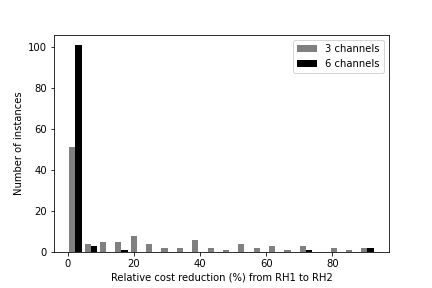
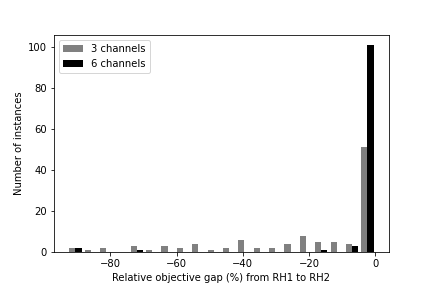
plots

diff --git a/plots/heur_analysis.py b/plots/heur_analysis.py
@@ -23,37 +23,18 @@ d_6_GH["Instance name "] = d_6_GH["Instance name "] + "_6channels"
 d_GH = pandas.concat([d_3_GH,d_6_GH])
 
 
-mannwhitneyutest_result_GH = scipy.stats.mannwhitneyu(d_GH['GH1 UB'],d_GH['GH2 UB'],alternative='greater')
-mannwhitneyutest_result_RH = scipy.stats.mannwhitneyu(d_RH['RH1 UB'],d_RH['RH2 UB'],alternative='greater')
-
-wilcoxontest_result_GH = scipy.stats.wilcoxon(d_GH['GH1 UB'],d_GH['GH2 UB'],alternative='greater')
-wilcoxontest_result_RH = scipy.stats.wilcoxon(d_RH['RH1 UB'],d_RH['RH2 UB'],alternative='greater')
-
-
-
-
-
-
-#mannwhitneyutest_result__greedy_vs_relax = scipy.stats.mannwhitneyu(d_GH['GH2 UB'],d_RH[' H-inf-reg value '],alternative='greater')
-mannwhitneyutest_result__relax_vs_greedy = scipy.stats.mannwhitneyu(d_RH['RH2 UB'],d_GH['GH2 UB'],alternative='greater')
-
-#wilcoxontest_result__greedy_vs_relax = scipy.stats.wilcoxon(d_GH['GH2 UB'],d_RH[' H-inf-reg value '],alternative='greater')
-wilcoxontest_result__relax_vs_greedy = scipy.stats.wilcoxon(d_RH['RH2 UB'],d_GH['GH2 UB'],alternative='greater')
-
-
-
 
 def comparison1v1UB(serie1,serie2,name_title,name_file):
     print("Descriptive statistics")
-    mean = np.mean(100*(serie1-serie2)/serie1)
+    mean = np.mean(100*(serie2-serie1)/serie1)
     print("Mean gap = {0}%".format(mean))
     mannwhitneyutest_result = scipy.stats.mannwhitneyu(serie1,serie2,alternative='greater')
     wilcoxontest_result = scipy.stats.wilcoxon(serie1,serie2,alternative='greater')
     print(mannwhitneyutest_result,wilcoxontest_result)
     serie1_3channel, serie1_6channel = serie1[:108], serie1[108:]
     serie2_3channel, serie2_6channel = serie2[:108], serie2[108:]
-    savings_3channel = 100*(serie1_3channel-serie2_3channel)/serie1_3channel
-    savings_6channel = 100*(serie1_6channel-serie2_6channel)/serie1_6channel
+    savings_3channel = 100*(serie2_3channel-serie1_3channel)/serie1_3channel
+    savings_6channel = 100*(serie2_6channel-serie1_6channel)/serie1_6channel
     plt.hist([savings_3channel,savings_6channel], bins=20,color=["grey",'black'],label = ["3 channels","6 channels"])
     plt.xlabel(name_title)
     plt.ylabel("Number of instances")
@@ -61,15 +42,53 @@ def comparison1v1UB(serie1,serie2,name_title,name_file):
     plt.savefig(name_file+".png")
     plt.close()
     
+def comparison1v1time(serie1,serie2,name_title,name_file):
+    print("Descriptive statistics")
+    mean = np.mean((serie2-serie1))
+    print("Mean gap = {0}s".format(mean))
+    mannwhitneyutest_result = scipy.stats.mannwhitneyu(serie2,serie1,alternative='greater')
+    wilcoxontest_result = scipy.stats.wilcoxon(serie2,serie1,alternative='greater')
+    print(mannwhitneyutest_result,wilcoxontest_result)
+    serie1_3channel, serie1_6channel = serie1[:108], serie1[108:]
+    serie2_3channel, serie2_6channel = serie2[:108], serie2[108:]
+    savings_3channel = (serie2_3channel-serie1_3channel)
+    savings_6channel = (serie2_6channel-serie1_6channel)
+    plt.hist([savings_3channel,savings_6channel], bins=20,color=["grey",'black'],label = ["3 channels","6 channels"])
+    plt.xlabel(name_title)
+    plt.ylabel("Number of instances")
+    plt.legend()
+    plt.savefig(name_file+".png")
+    plt.close()
+
+def comparison1v1UBscatter(serie1,serie2,sizes,name_xtitle,name_ytitle,name_file):
+    m = max(serie1.max(),serie2.max())
+    sizes1, sizes2 = sizes[:108], sizes[108:]
+    serie1_3channel, serie1_6channel = serie1[:108], serie1[108:]
+    serie2_3channel, serie2_6channel = serie2[:108], serie2[108:]
+    plt.plot(np.linspace(10,m,1000),np.linspace(10,m,1000),color = 'grey',linestyle="--")
+    plt.scatter(serie1_3channel,serie2_3channel,color="grey",label = "3 channels")
+    plt.scatter(serie1_6channel,serie2_6channel,color="black",label = "6 channels")
+    #plt.scatter(serie1_3channel,serie2_3channel,s=sizes1,color="grey",label = "3 channels")
+    #plt.scatter(serie1_6channel,serie2_6channel,s=sizes2,color="black",label = "6 channels")
+    plt.xlabel(name_xtitle)
+    plt.ylabel(name_ytitle)
+    plt.xscale('log')
+    plt.yscale('log')
+    plt.legend()
+    plt.savefig(name_file+".png")
+    plt.close()
     
 
-print("UB Greedy")
-comparison1v1UB(d_GH['GH1 UB'],d_GH['GH2 UB'],"Relative cost reduction (%) from GH1 to GH2","greedy_cost_comparison")
-print("Time Greedy")
-#comparison1v1(d_GH['GH1 time']+0.001,d_GH['GH2 time'],-1,"Relative time augmentation (%) from GH1 to GH2","greedy_time_comparison")
-print("UB Relax-based-heur")
-comparison1v1UB(d_RH['RH1 UB'],d_RH['RH2 UB'],"Relative cost reduction (%) from RH1 to RH2","relax_based_heur_cost_comparison")
-print("Time Relax-based-heur")
-#comparison1v1(d_RH['RH1 time']+0.001,d_RH['RH2 time'],-1,"Relative time augmentation (%) from GH1 to GH2","relax_based_heur_time_comparison")
-print('UB greedy vs relax')
-comparison1v1UB(d_RH['RH2 UB'],d_GH['GH2 UB'],"Relative cost reduction (%) from RH2 to GH2","greedy_vs_relax_cost_comparison")
+print("--------------UB Greedy--------------")
+comparison1v1UB(d_GH['GH1 UB'],d_GH['GH2 UB'],"Relative objective gap (%) from GH1 to GH2","greedy_cost_comparison")
+print("--------------Time Greedy--------------")
+comparison1v1time(d_GH['GH1 time'],d_GH['GH2 time'],"Absolute time difference (s) from GH1 to GH2","greedy_time_comparison")
+print("--------------UB Relax-based-heur--------------")
+comparison1v1UB(d_RH['RH1 UB'],d_RH['RH2 UB'],"Relative objective gap (%) from RH1 to RH2","relax_based_heur_cost_comparison")
+print("--------------Time Relax-based-heur--------------")
+comparison1v1time(d_RH['RH1 time'],d_RH['RH2 time'],"Absolute time difference (s) from RH1 to RH2","relax_based_heur_time_comparison")
+print('--------------UB greedy vs relax--------------')
+comparison1v1UB(d_GH['GH2 UB'],d_RH['RH2 UB'],"Relative objective gap (%) from RH2 to GH2","greedy_to_relax_cost_comparison")
+comparison1v1UB(d_RH['RH2 UB'],d_GH['GH2 UB'],"Relative objective gap (%) from RH2 to GH2","relax_to_greedy_cost_comparison")
+comparison1v1UBscatter(d_GH['GH2 UB'].values,d_RH['RH2 UB'].values,(d_GH['|I| ']+d_GH['|J|']).values.astype('float'),"Objective cost with GH2","Objective cost with RH2","greedy_to_relax_cost_scatter")
+comparison1v1time(d_GH['GH2 time'],d_RH['RH2 time'],"Absolute time difference (s) from GH2 to RH2","greedy_to_relax_time_comparison")
